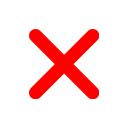
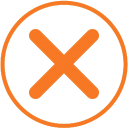
restyle and theme css. Add blitz mode button and connect it to function

Changed region(s): [[0.0, 0.0, 1.0, 1.0], [0.2188, 0.2188, 0.7812, 0.7812]]

diff --git a/public/javascripts/flashcard.js b/public/javascripts/flashcard.js
@@ -65,17 +65,17 @@ flashCardApp.Views.EnglishCard = Backbone.View.extend({
     "click .closeBtn" : "closeWindow"
   },
   render: function(){
-    this.$el.html("<h2> Translate \"" + this.model.attributes.english + "\" to Spanish </h2><h4 class=\"answerBtn\">Show me the answer! </h4><div></div> <a class=\"closeBtn\" href=\"#\"></a>");
+    this.$el.html("<h2> Translate : <br>  <span>\"" + this.model.attributes.english + "\"</span></h2> <h2 class=\"answerBtn\">Show me the answer ! </h2><div></div> <a class=\"closeBtn\" href=\"#\"></a>");
     return this;
   },
   showAnswer: function(){
-    $(".quizCard div").html("<h3>" + this.model.attributes.spanish + "</h3>");
+    $(".quizCard div").html("<h2> <span>" + this.model.attributes.spanish + "</span></h2>");
     flashCardApp.router.navigate("card/" + this.model.attributes.english + "/" + this.model.attributes.spanish);
     return this;
   },
   closeWindow: function(){
     $(".quizContainer").html("");
-    flashCardApp.router.navigate("", {trigger:true});
+    flashCardApp.router.navigate("/");
     return this;
   }
 })
@@ -92,7 +92,7 @@ flashCardApp.Views.EnglishTile = Backbone.View.extend({
   quiz: function(){
     var flashCard = new flashCardApp.Views.EnglishCard({model: this.model});
      $(".quizContainer").html(flashCard.render().$el);
-     flashCardApp.router.navigate("card/" + this.model.attributes.english, {trigger: true});
+     flashCardApp.router.navigate("card/" + this.model.attributes.english);
      return this;
   }
 });
@@ -100,6 +100,13 @@ flashCardApp.Views.EnglishTile = Backbone.View.extend({
 flashCardApp.Views.TileSet = Backbone.View.extend({
   el: "#spa",
   className: "tileView",
+  events: {
+    "click .blitzBtn": "quizView"
+  },
+  initialize: function(){
+    this.$el.append("<a href=\"#\" class=\"blitzBtn\"> Blitz Mode! </a>");
+    return this;
+  },
   render: function(){
     var that = this;
     this.collection.each(function(card){
@@ -107,6 +114,11 @@ flashCardApp.Views.TileSet = Backbone.View.extend({
         this.$el.append(tile.render().$el);
     }, this);
     return this;
+  },
+  quizView: function(){
+    // $("#spa").html("");
+    var random = flashCardApp.words.at(Math.floor(Math.random()*flashCardApp.words.length));
+    console.log(random);
   }
 });
 
@@ -119,15 +131,17 @@ flashCardApp.Routers.Main = Backbone.Router.extend({
   routes: {
     "": "index",
     "card/:english": "english",
-    "card/:english/:spanish" : "englishAnswer"
+    "card/:english/:spanish" : "englishAnswer",
+    "blitz/:card_id" : "blitz"
   },
   index: function(){
     var tileSet = new flashCardApp.Views.TileSet({ collection: flashCardApp.words });
-    tileSet.render();
+    tileSet.initialize().render();
   },
   english: function(english){
+    $("#spa").html("");
     var tileSet = new flashCardApp.Views.TileSet({ collection: flashCardApp.words });
-    tileSet.render();
+    tileSet.initialize().render();
     var currentCard = flashCardApp.words.where({english: english});
     var currentCardView = new flashCardApp.Views.EnglishCard({model: currentCard[0]});
     $(".quizContainer").html(currentCardView.render().$el);
@@ -135,8 +149,9 @@ flashCardApp.Routers.Main = Backbone.Router.extend({
     //then build another route for what happens when its answered
   },
   englishAnswer: function(english, spanish){
+    $("#spa").html("");
     var tileSet = new flashCardApp.Views.TileSet({ collection: flashCardApp.words });
-    tileSet.render();
+    tileSet.initialize().render();
     var currentCard = flashCardApp.words.where({english: english});
     var currentCardView = new flashCardApp.Views.EnglishCard({model: currentCard[0]});
     $(".quizContainer").html(currentCardView.render().$el);

diff --git a/public/stylesheets/flashcard_style.css b/public/stylesheets/flashcard_style.css
@@ -11,11 +11,12 @@
   font-weight: bold;
 }
 
+
 body{
-  background: #2C3E50;
+  background: #554236;
   font-family: "ostrich";
-  font-size:15pt;
-  color:#E87E04;
+  font-size:20px;
+  color:#554236;
 }
 
 h1 {
@@ -23,13 +24,15 @@ h1 {
   font-size:3em;
   width:40%;
   margin: auto;
+  color:#F77825;
 }
 
 .tile{
   width:125px;
   height:125px;
   margin:20px;
-  border: 1px solid #000;
+  border: 5px solid #D3CE3D;
+  background: #60B99A;
   float:left;
 }
 .tile h3{
@@ -38,7 +41,7 @@ h1 {
 }
 
 .tile:hover{
-  background-color:teal;
+  background-color: #F77825;
   cursor:pointer;
 }
 
@@ -46,7 +49,7 @@ h1 {
   background: #fff;
   position: fixed;
   top: 100px;
-  left:25%;
+  left:20%;
   z-index: 100;
   height:0px;
   width: 50%;
@@ -57,16 +60,36 @@ h1 {
   width: 50%;
   margin: 0 auto;
   padding: 50px;
-  background: #ccc;
+  background: #333;
+  color: #F77825;
+  border: 2px solid #F77825;
   position:fixed;
+}
+
+.quizCard span{
+  font-size:2em;
+  color:#60B99A;
+  font-family: "ostrich"
 }
 
 .closeBtn {
  position:absolute;
- top: 0px;
- right: 0px;
+ top: 10px;
+ right: 10px;
  height:25px;
  width:25px;
  background-image: url("../images/Close-128.png");
  background-size: cover;
+}
+
+.blitzBtn{
+  font-family: "ostrichBold";
+  position:absolute;
+  top:10px;
+  right:10px;
+  color:#fff;
+  background:#F77825;
+  font-size:36px;
+  text-decoration: none;
+  padding:10px;
 }

diff --git a/server.js b/server.js
@@ -8,17 +8,10 @@ app.use(express.static(path.join(__dirname, 'public')));
 // app.use(express.logger('dev'));
 // app.use(express.bodyParser());
 
-app.get('/', function(req, res){
+app.get('/*', function(req, res){
   res.sendfile('./public/views/index.html');
 });
 
-app.get('/card/:option/', function(req, res){
-  res.sendfile('./public/views/index.html');
-});
-
-app.get('/card/:option/:option2', function(req, res){
-  res.sendfile('./public/views/index.html');
-});
 
 http.createServer(app).listen(app.get('port'), function(){
   console.log('Express server listening on port ' + app.get('port'));

diff --git a/public/views/index.html b/public/views/index.html
@@ -15,8 +15,8 @@
     <h1>  Flash Card Madness!! </h1>
   </header>
   <div id="spa">
-  <div class="quizContainer">
   </div>
+  <div class="quizContainer">
   </div>
 </body>
 </html>
